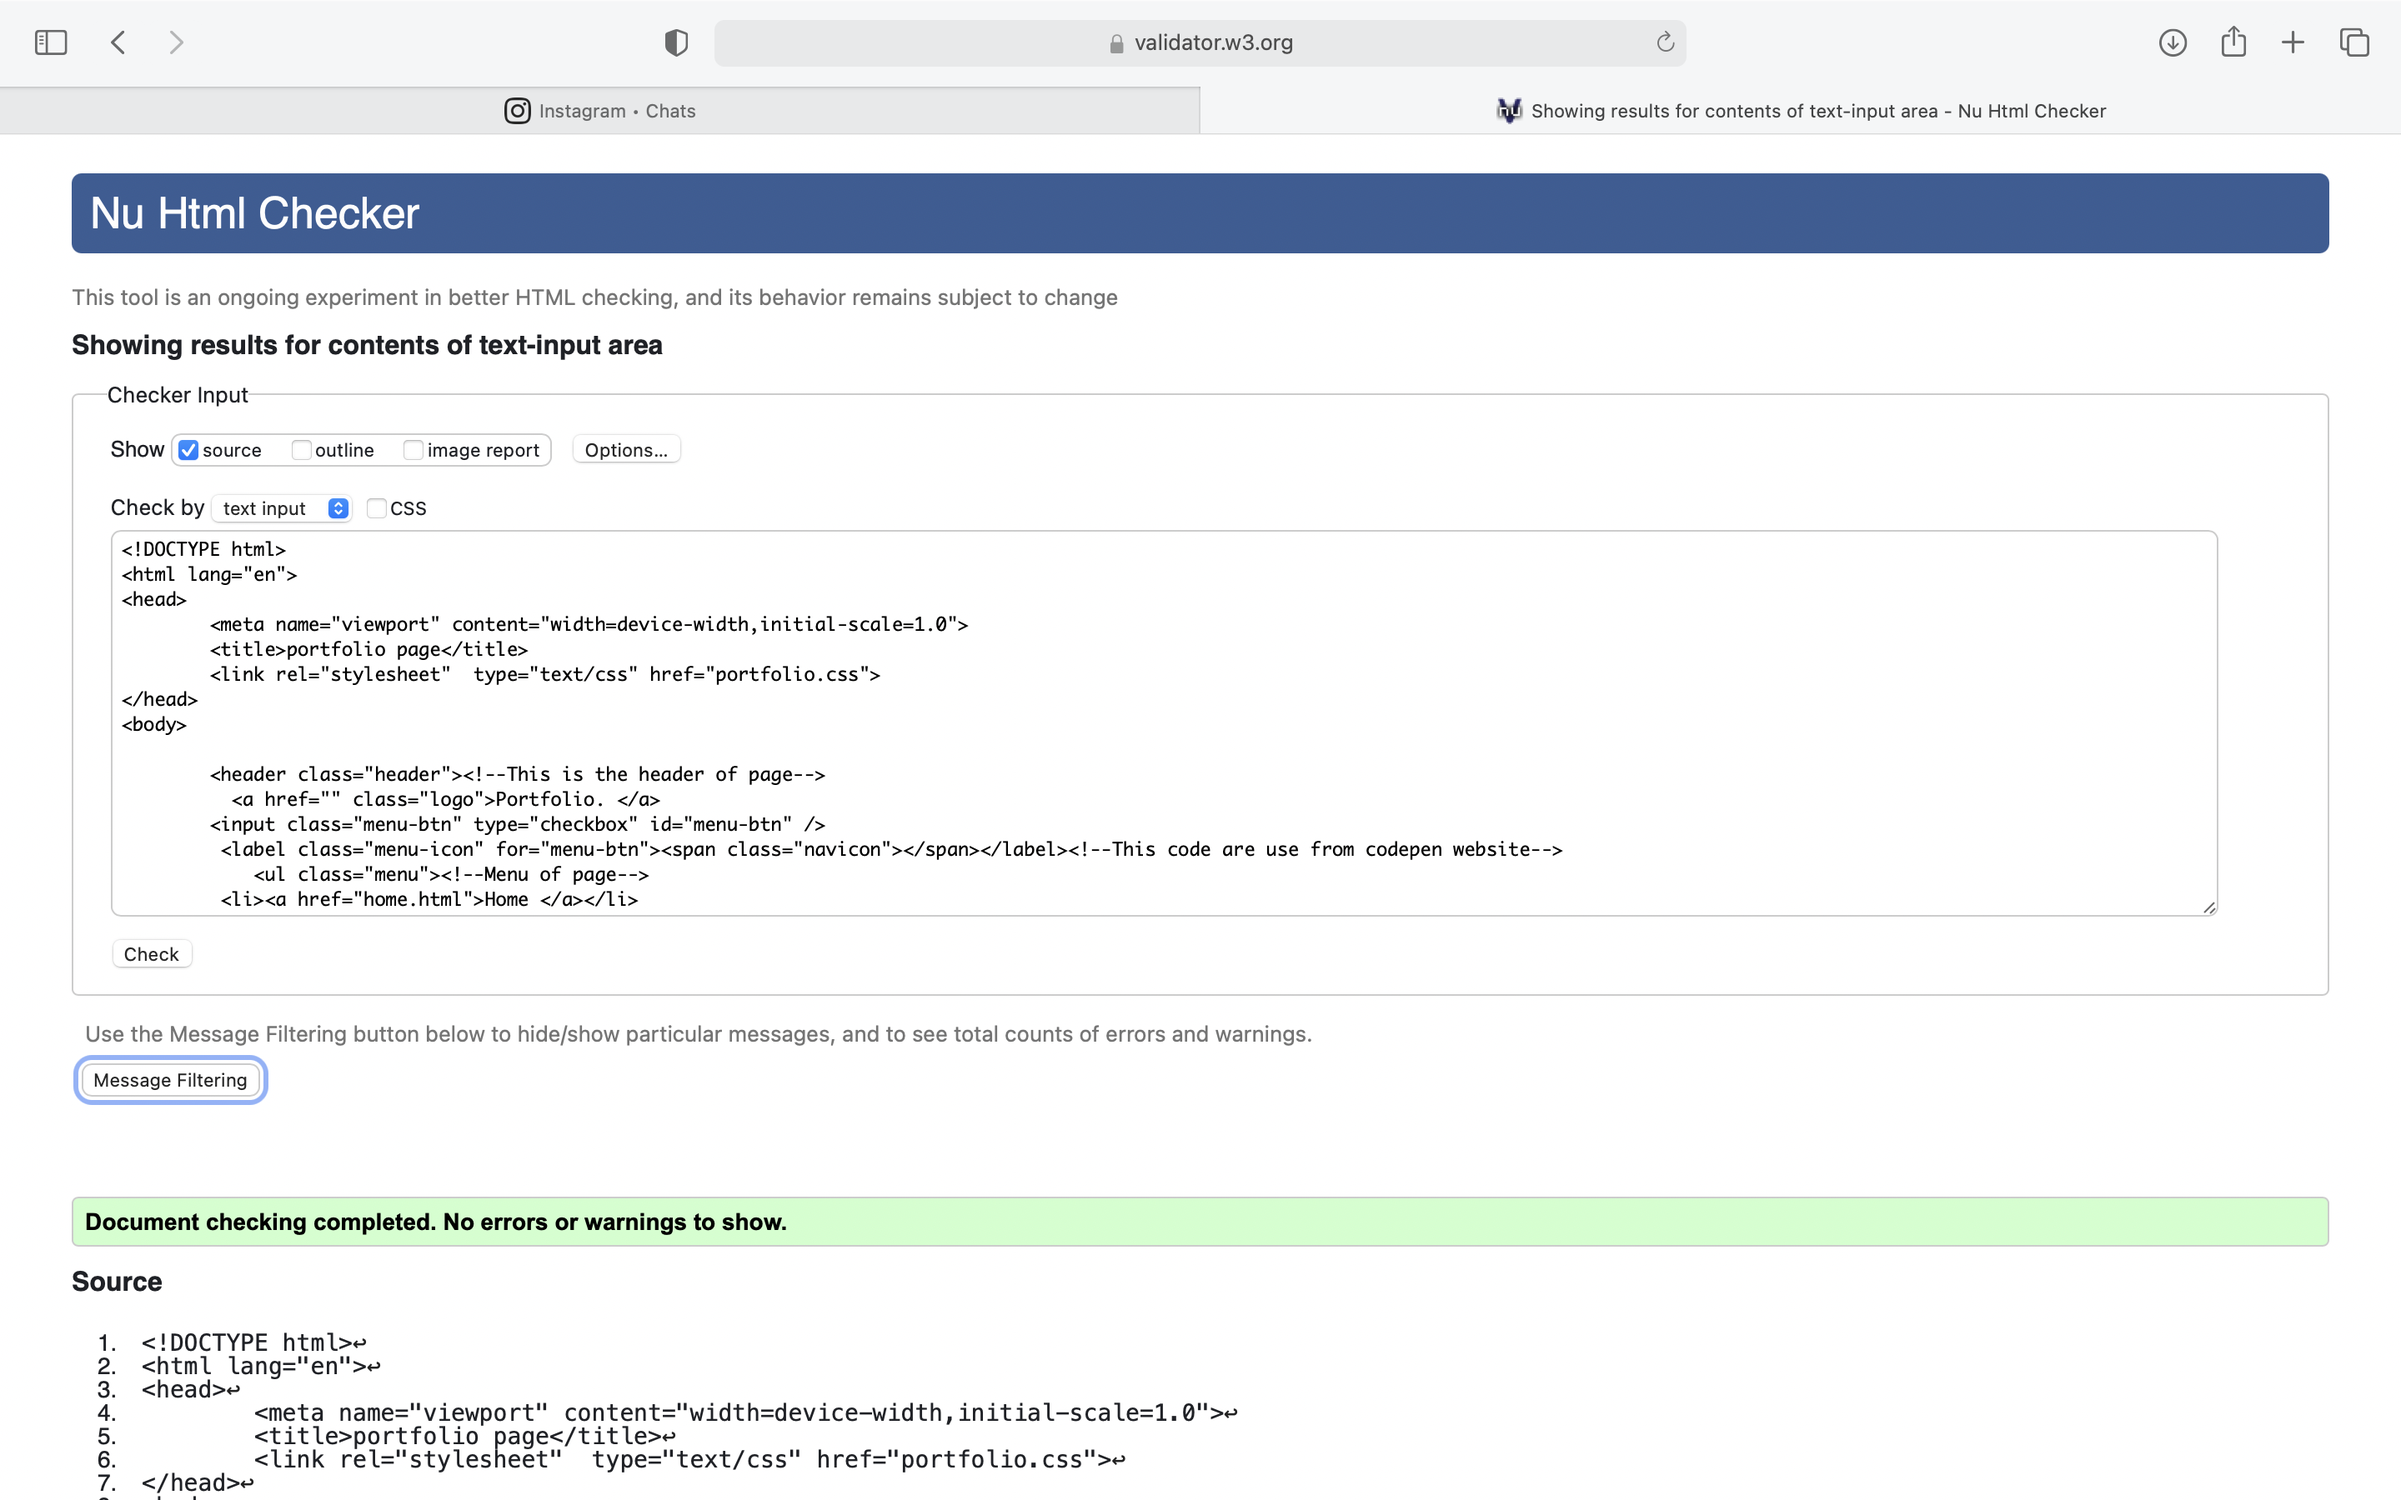
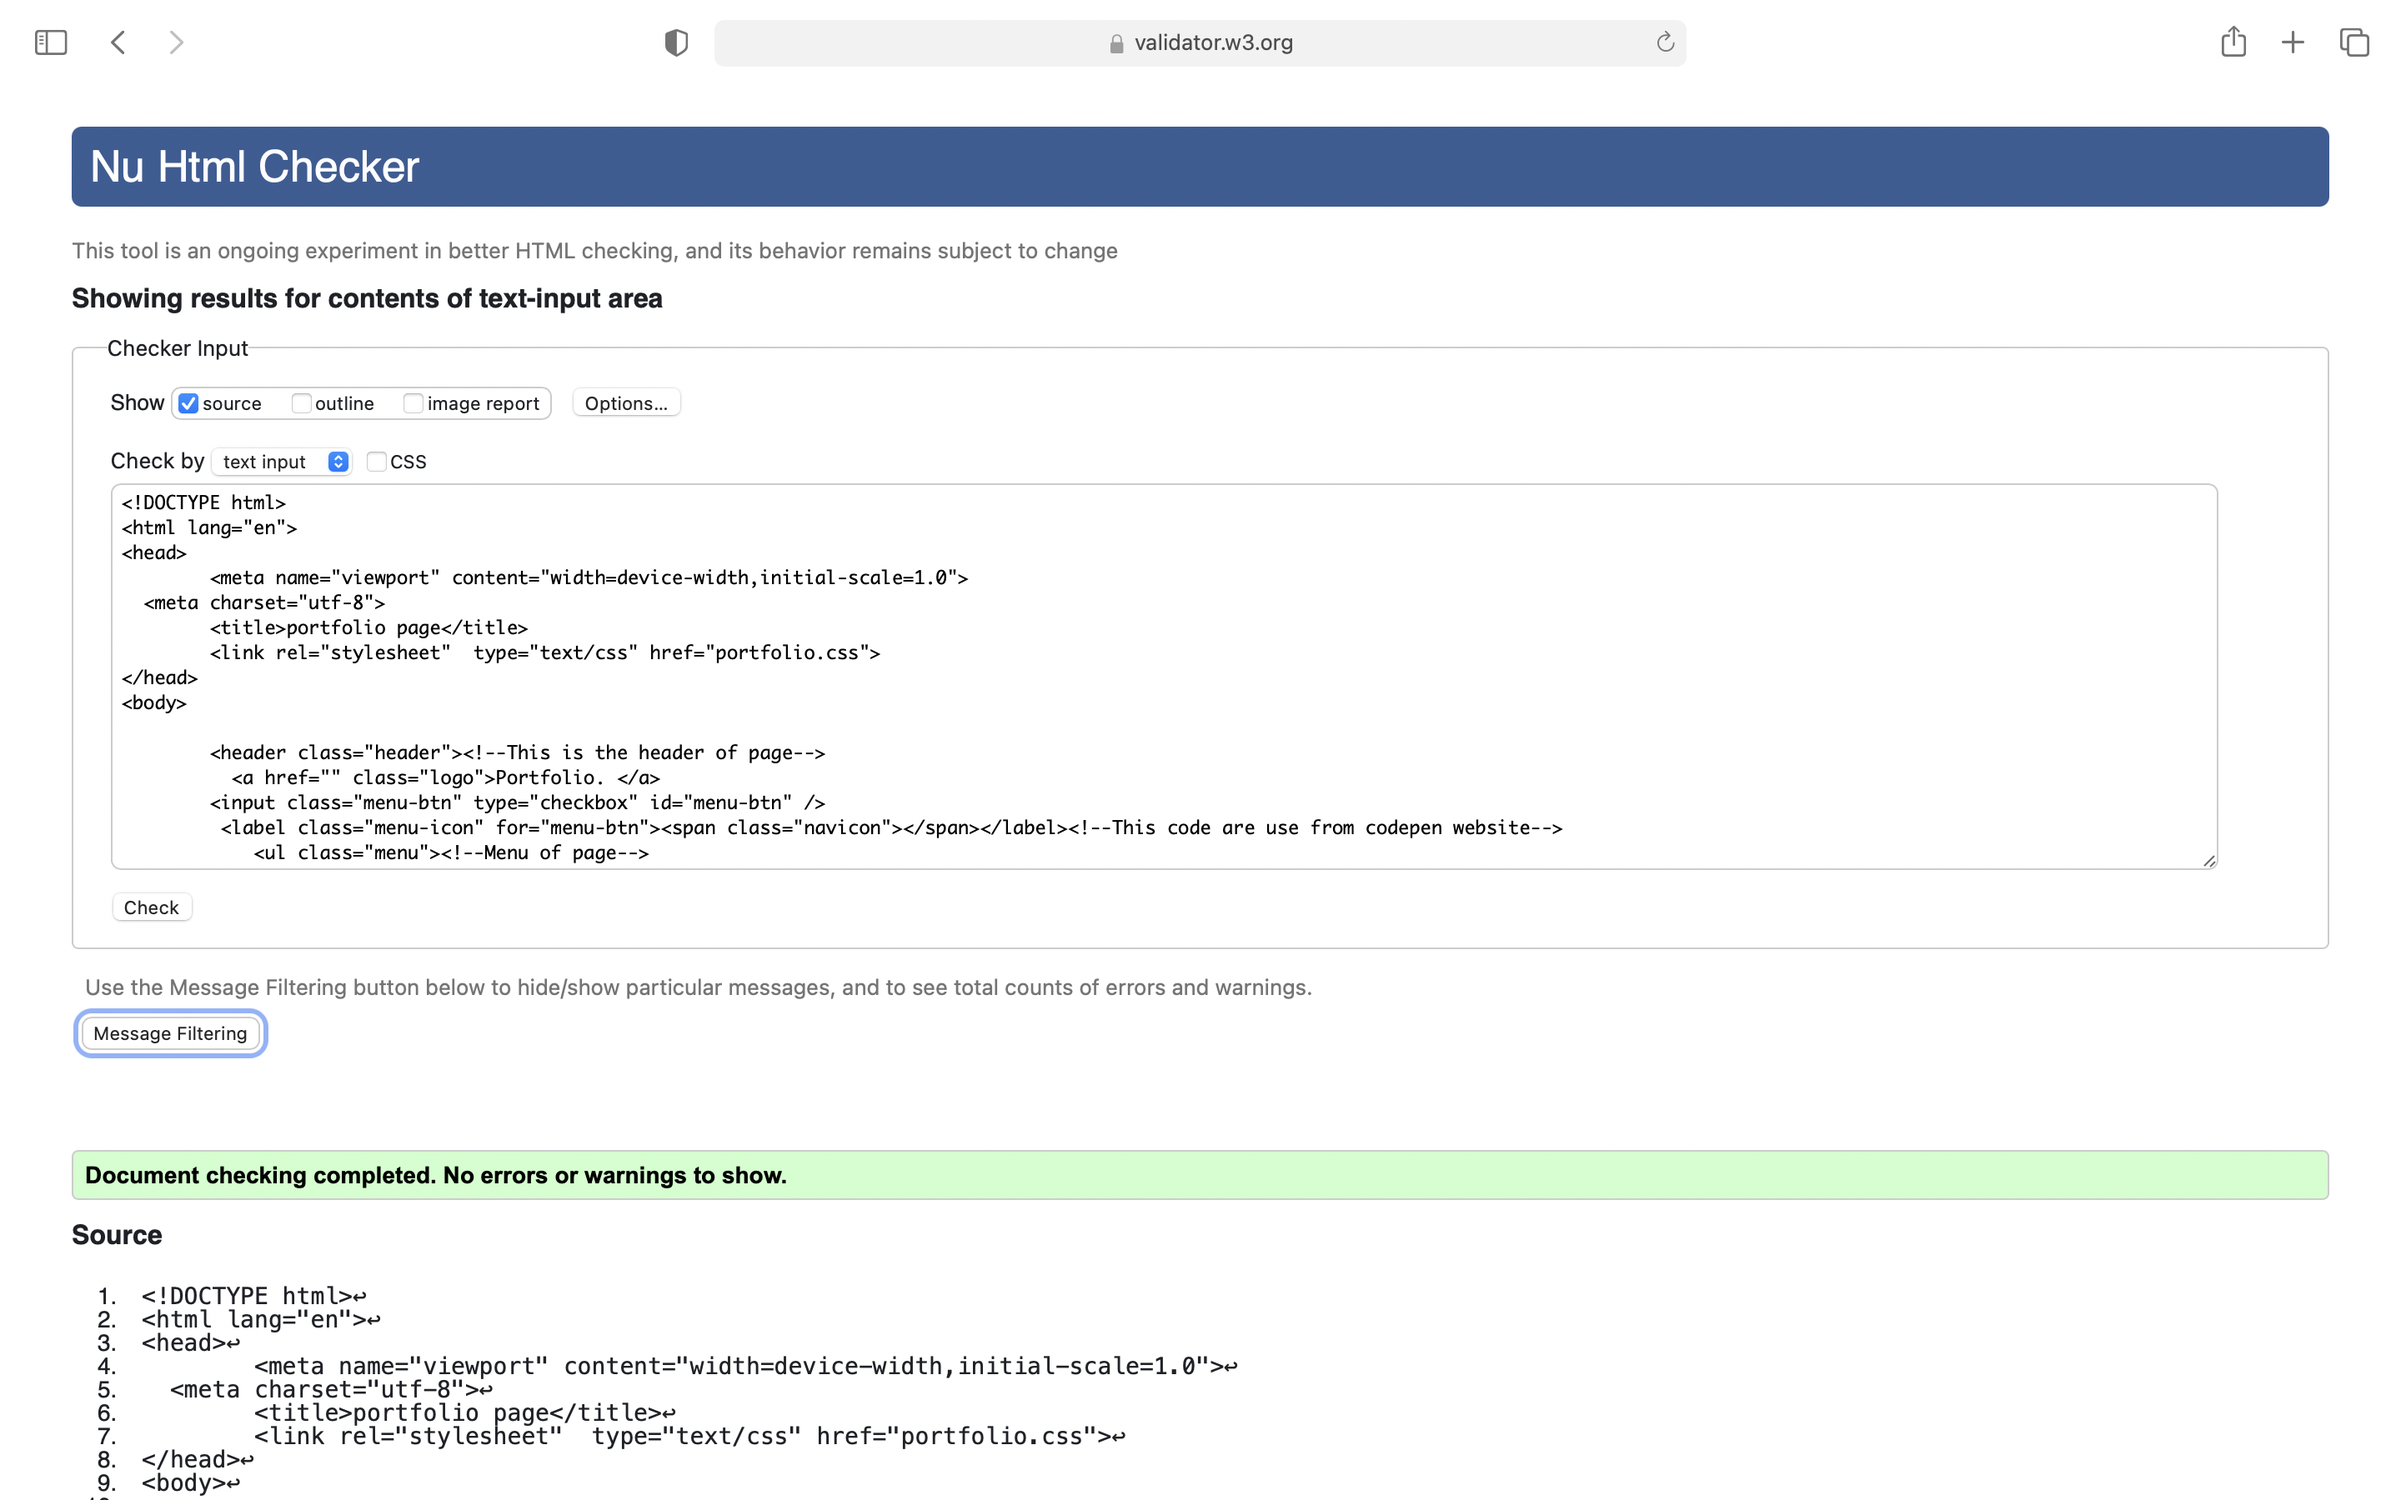
My Assignment

Changed region(s): [[0.0312, 0.4978, 0.9688, 0.9956], [0.0, 0.0311, 0.9688, 0.4978]]

diff --git a/sitereport.html b/sitereport.html
@@ -2,6 +2,7 @@
 <html lang="en">
 <head>
 	<meta name="viewport" content="width=device-width,initial-scale=1.0">
+    <meta charset="utf-8">
 	<title> sitereport page</title>
 	<link rel="stylesheet" type="text/css" href="report.css">
     <!---Headline of report--->
@@ -24,17 +25,20 @@
 	</div>
 	   
 	   <!---This is content of report-->
-		<p>First of all,let me introduce myself Sungava Subedi and I am the student of IT(Information Technology) from NAMI college. After I passed my +2 , I was searching for IT college then I was attracted by the learning process and eniviroment of NAMI college which is totally different from other college . It's been only two month I joined NAMI college.It's just a beginning of learning in this course,Since this month we learning  our modules through online classes beacause of pandemic situation. I am very excited to share my  physical and online learning experience.</p>
+		<p>First of all,let me introduce myself Sungava Subedi and I am the student of IT(Information Technology) from NAMI College. After I passed my +2 , I was searching for IT college then after I was attracted by the learning process and environment of NAMI college which is totally different from other college. It's been only two month I joined NAMI college. It's just a beginning of learning in this course.Since, This month we learning  our modules through online classes because of pandemic situation. I am very excited to share my  physical and online learning experience.</p>
 	  
 
 	    <!--Basic details of report--->
-        <p>All student have different way of learning.Learning experiences are really meaningful,challenging and interesting.My experience in this course is incredible because I am very interested in Web development.It's include web degins,web programming,web publishing and it usually refers to creating and maintaining website.From the first week we learned about Github and how to create repository in Github account as well as we learn Github mechanism.Thenafter,we learned to create  web pages by using  html and css ,this was the most excited part because we use different tags and coding to creating, designing, maintaining our webpages.And we observed  many others thing like: layouts and positioning,inline elements,block elements,display properties,flex properties and float properties etc.These are the experience of physical class. </p>
+        <p>All student have different way of learning. Learning experiences are really meaningful, challenging and interesting. My experience in this course is incredible because I am very interested in Web development. It's include web design, web programming, web publishing and it usually refers to creating and maintaining website. From the first week we learned about Github and how to create repository in Github account as well as we learn Github mechanism. Then after, We learned to create  web pages by using  html and css ,this was the most excited part because we use different tags and coding to creating, designing, maintaining our webpages. And we observed  many others thing like: layouts and positioning, inline elements, block elements, display properties, flex properties and float properties etc. These are the experience of physical class. </p>
       
             <!--This is the another paragraph-->
-        <p> After week 6 we learned our modules through online classes.In my opinion,Physical class is much better than online class because online learning is difficult and stressful.I did hard work but I can't complete my work on time because of Internet problem or Electricity problem .Onlineclass teached  me one thing that i like is how to manage time for study and other work. And,In this course my online learning  experience is good beacause our module teacher teached us very well .We continued our topic and we learned about CSS3 properties,HTML forms and  so on.In term of learning ,My best part is to do CSS3 colors,gradient,transform(translate) in tutorial.I really enjoying .For now,My classes are running like this.</p>
+        <p> After week 6,We learned our modules through online classes. In my opinion, Physical class is much better than online class because online learning is difficult and stressful. I did hard work but I can't complete my work on time because of Internet problem or Electricity problem .Online class teach me one thing that I like is how to manage time for study and other work. And, In this course my online learning  experience is good because our module teacher teach us very well .We continued our topic and we learned about CSS3 properties, HTML forms and  so on  . In term of learning ,My best part is to do CSS3 colors, gradient, transform(translate) in tutorial. I really enjoying .For now my classes are running like this.</p>
+
+        <!--This is the experience of doing this assignment-->
+        <P>Now I sharing my experience ,ups and downs while  I doing this websites. This was my first websites. When I doing this assignment it was exciting as well as difficult also.   We had to make five responsive webpages that's why I start from home page .Then after, I look in the brief of assignment and I get some ideas and also searched in google websites. My home page almost completed easily but when I make hamburger icon it can't work properly .Then after, I search in google website and I use some code from codepen it can work properly and I use that hamburger icon code in all pages. Then after, I make portfolio pages it was easy because in this page we have to put dummy images for term II. After that, I made contact us page .In  contact page we had to make form and our contact also I written my contact in form placeholder. And I made cv page I written my skill, contact, personal information, language, qualification etc in cv. At last Sitereport, It was little bit difficult.when I do validation of all html and css there are many more error and I correction all error. And I give referencing of all web pages by harvard referencing style.
       
-        <!--Conculsion of report-->
-        <p>Atlast,This is my learning experience in web deveopment,coding,design and debugging process of two month.I feel very lucky to share my learning experiences with you.
+        <!--Conclusion of report-->
+        <p>At last,This is my learning experience in web development, coding, design and debugging process of two month and experience of  assignment.I feel very lucky to share my learning experiences with you.
       	  	Thank you.
       	  	 #staysafe
       	  </p>
@@ -56,8 +60,8 @@
         <b>Reference:</b><!--Reference of cv page--> 
           <p>Concept of page: Module Lecture ,Module tutorial and from google.<br>Source code:https://www.patreon.com /online tutorials from youtube.<br><br>Hamburger icon code link:<a href="https://www.google.com/url?sa=t&rct=j&q=&esrc=s&source=web&cd=&ved=2ahUKEwiw-6vovPjwAhWbXisKHfSLDDkQFjAAegQIBRAD&url=https%3A%2F%2Fcodepen.io%2Fmutedblues%2Fpen%2FMmPNPG&usg=AOvVaw0bY7JoaoNR6dQUJffzfaXL">URL of Icon code</a><br>Source of code:Google(Website:codepen)</p>
         <li>Sitereport Page</li>
-        <b>Reference:</b><!--reference of sitereport-->
-           <p>Source:Module Tutorial.<br>Concept of page:From module and Myself<br><br>Hamburger icon code link:<a href="https://www.google.com/url?sa=t&rct=j&q=&esrc=s&source=web&cd=&ved=2ahUKEwiw-6vovPjwAhWbXisKHfSLDDkQFjAAegQIBRAD&url=https%3A%2F%2Fcodepen.io%2Fmutedblues%2Fpen%2FMmPNPG&usg=AOvVaw0bY7JoaoNR6dQUJffzfaXL">URL of Icon code</a><br>Source of code:Google(website:Codepen)</p>
+        <b>Reference:</b><!--Reference of sitereport-->
+           <p>Source:Module Tutorial.<br>Concept of page:From module and Myself.<br><br>Hamburger icon code link:<a href="https://www.google.com/url?sa=t&rct=j&q=&esrc=s&source=web&cd=&ved=2ahUKEwiw-6vovPjwAhWbXisKHfSLDDkQFjAAegQIBRAD&url=https%3A%2F%2Fcodepen.io%2Fmutedblues%2Fpen%2FMmPNPG&usg=AOvVaw0bY7JoaoNR6dQUJffzfaXL">URL of Icon code</a><br>Source of code:Google(website:Codepen)</p>
 
 </div>
  <div class="validation"><!--validation of html pages-->
@@ -79,7 +83,7 @@
  	    <img src="validation of cv css.png" alt="validation" style="width: 40%;"/>
   </div>
   <h2>Conclusion:</h2>
-    <p>This was  my first web page.It was little bit  difficult to me.But ,At the last I did it.Hope it will be successful.I would like to say thank you our college and teachers to giving this exciting assignment. </p> 
+    <p>This was  my first web page. It was little bit  difficult to me.But ,At the last I did it. Hope It will be successful. I would like to say thank you our college and teachers to giving this exciting assignment. </p> 
 
 </section>
  </body>  

diff --git a/cv.html b/cv.html
@@ -2,6 +2,7 @@
 <html lang ="en">
 <head>
 	<meta name="viewport" content="width=device-width,initial-scale=1.0">
+   <meta charset="utf-8">
 	<title>CV page</title>
 	<link rel="stylesheet" type="text/css" href="cv.css">
 </head>  
@@ -25,9 +26,9 @@
 		 <h2>Sungava Subedi<br><span>(IT) Student</span></h2>
         <h3 class="title">Contact Info:</h3> 
         <h4>  <!--This is my contact-->      
-        <br>Mobile no: 9873672656 <br>
-           Address: Shankharapur-5,KTM<br>
-           Email Address: sungavasubedi262@gmail.com<br>
+           <br>Mobile no: 9873672656 <br>
+           <br>Address: Shankharapur-5,KTM<br>
+           <br>Email Address: sungavasubedi262@gmail.com<br>
       </h4>
          <h3 class="title">Qualification:</h3>
        <menu><!--This is my qualifications-->
@@ -61,7 +62,7 @@
             
         </menu>
         <h3 class="title">INTEREST:</h3>
-      <menu><!--These are the interst-->
+      <menu><!--These are the interest-->
         	   <li>Gaming</li>
         	   <li>Reading</li>
         	   <li>Dancing</li>

diff --git a/contact.html b/contact.html
@@ -2,6 +2,7 @@
 <html lang="en">
 <head>
         <meta name="viewport" content="width=device-width,initial-scale=1.0">
+        <meta charset="utf-8">
          <title>contact page</title>
          <link rel="stylesheet" type="text/css" href="contact.css">
   </head>
@@ -24,9 +25,9 @@
    				<!--This is the content for contact-->
    				<div class="form">
    				<top-form>
-   				<h1><!--This is the first part of form--> 
+   				<h1><!--This is the first part of form--> <!--In form placeholder my contact are available-->
    				  <b>Name</b>
-   				   <input type="text" placeholder="sungava">
+   				   <input type="text" placeholder="Sungava Subedi">
    			   </h1>
    			   <h1>
    			   	  <b>Email</b>

diff --git a/cv.css b/cv.css
@@ -158,7 +158,7 @@ section div:first-child{
 }
 h2{
   color: black;
-  font-size: 20px;
+  font-size: 25px;
   display: flex;
   margin-top: 10px;
   align-items: center;
@@ -194,7 +194,7 @@ li{
 }
 /*styling section*/
 section div:nth-child(2){
-  padding: 57px;
+  padding:80px;
   background: lightblue;
   float: left;
   margin-top: 7%;

diff --git a/portfolio.html b/portfolio.html
@@ -2,6 +2,7 @@
 <html lang="en">
 <head>
 	<meta name="viewport" content="width=device-width,initial-scale=1.0">
+  <meta charset="utf-8">
 	<title>portfolio page</title>
 	<link rel="stylesheet"  type="text/css" href="portfolio.css">
 </head>
